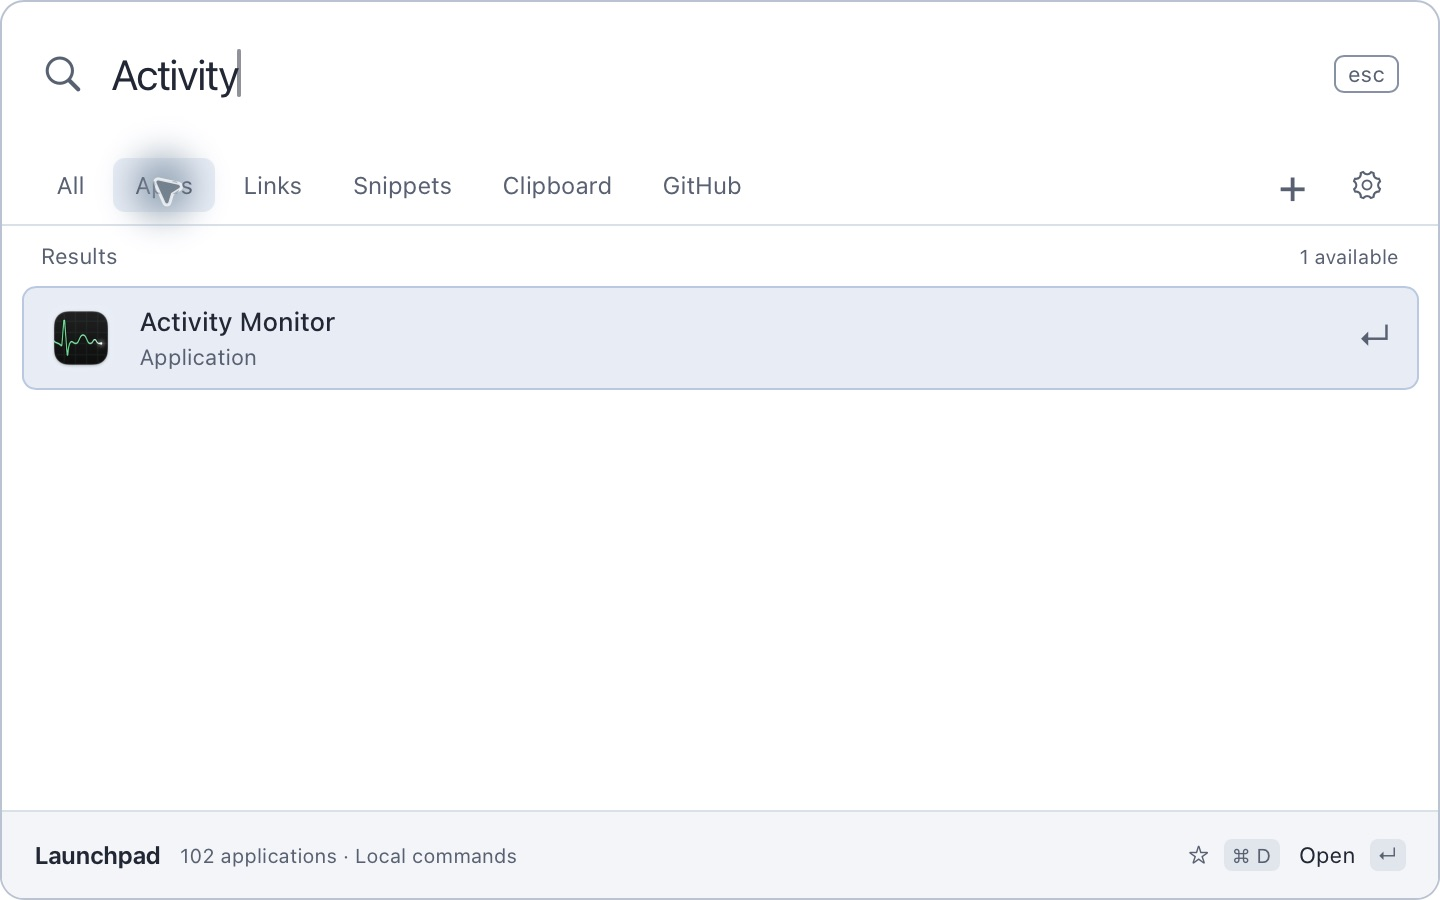
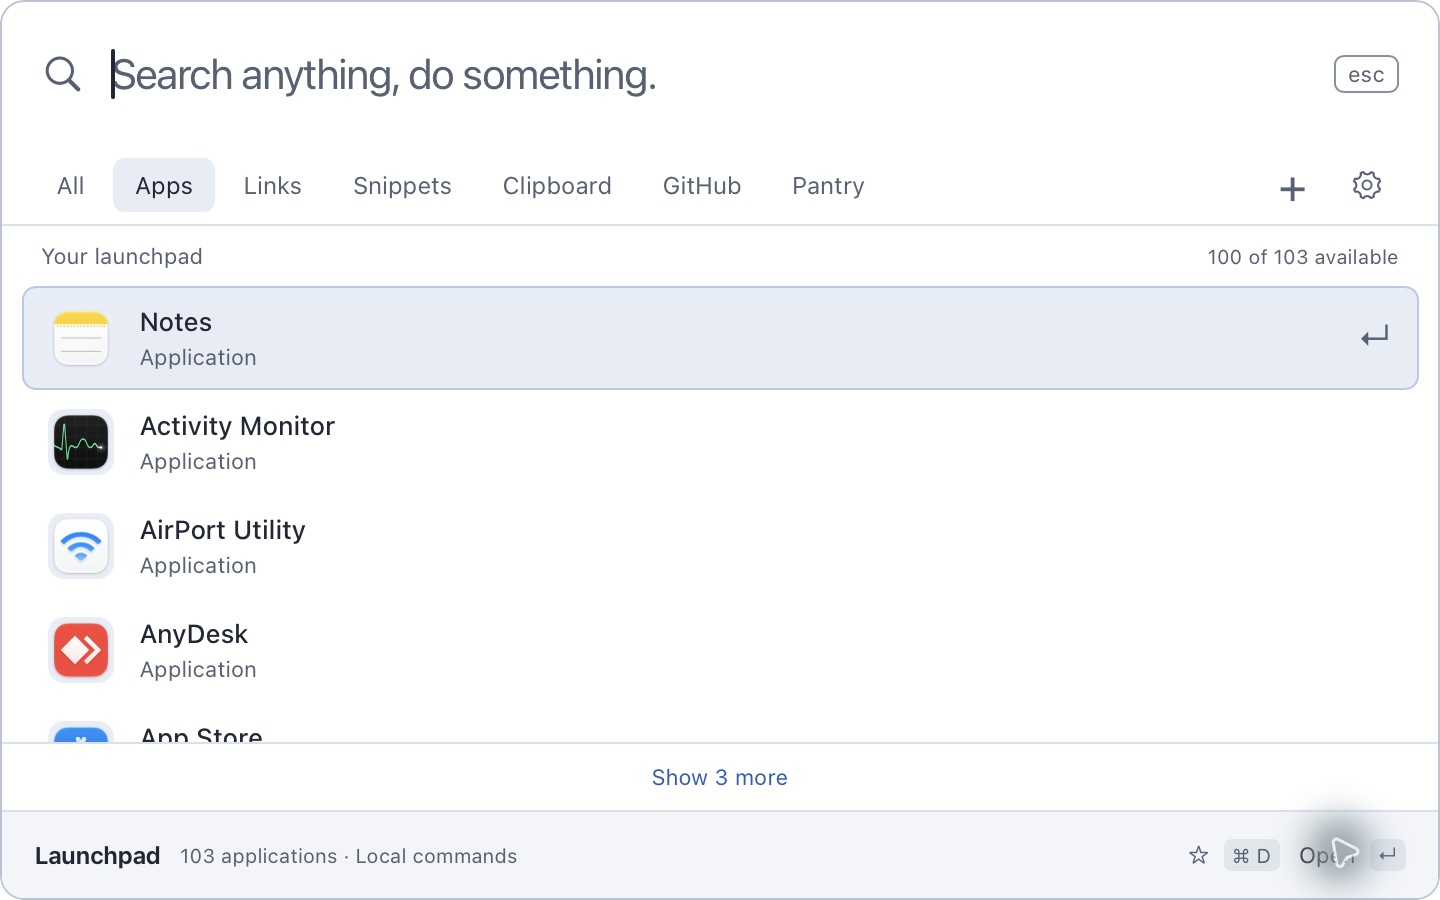
fix: qualify native search editing and saved connections

diff --git a/app-store.config.ts b/app-store.config.ts
@@ -35,6 +35,6 @@ If another app owns Command + Space, release that shortcut before using Launchpa
   ageRating: { userGeneratedContent: true },
   releaseType: 'AFTER_APPROVAL',
   usesNonExemptEncryption: false,
-  screenshots: [{ platform: 'MAC_APP_STORE', files: ['assets/screenshots/applications.jpg', 'assets/screenshots/applications-light.jpg', 'assets/screenshots/calculator.jpg', 'assets/screenshots/github.jpg'] }],
+  screenshots: [{ platform: 'MAC_APP_STORE', files: ['assets/screenshots/applications.jpg', 'assets/screenshots/applications-light.jpg', 'assets/screenshots/calculator.jpg', 'assets/screenshots/github.jpg', 'assets/screenshots/pantry.jpg'] }],
   submitForReview: false,
 } satisfies NativeAppStoreMetadata

diff --git a/docs/planning/v1.md b/docs/planning/v1.md
@@ -71,3 +71,9 @@ The user confirmed systemwide Command + Space, automatic search focus, Escape di
 The Store edition retains the same Pantry features and discloses the external CLI architecture in review notes. A Developer ID build of the same application is used for local qualification. There is no separate edition that hides installation behavior from App Review.
 
 The native Keychain check found and fixed a Craft persistence defect before release. Craft 0.0.365 stores credentials through Security.framework, reports denied reads and failed writes, and preserves existing credentials when an update fails. A real Launchpad quit and relaunch restored the Pantry connection and installed package list.
+
+Signed qualification exposed a Keychain authorization wait on the main thread. Craft 0.0.366 moves credential operations to owned workers and returns through the shared reply pool. Launchpad registers its shortcut before restoring optional integrations, so those integrations cannot delay the primary launcher.
+
+Craft 0.0.367 treats Keychain access as an interactive native request, preserving the pending request until macOS answers instead of timing out during system authentication. The signed, sandboxed qualification build verified Command + Delete clears search while preserving saved commands, and Return selects a package filter without launching the selected search result. Saved connection checks show their pending state and support retry after a denied request. Authorization for credentials created by the earlier development build remains a user-controlled macOS step on this machine.
+
+Signed Build 11 also captured the known calculator result `252` while the palette was hidden and rendered the saved text preview after reopening. The original paused setting and seven-day retention were restored after this check.

diff --git a/README.md b/README.md
@@ -9,11 +9,11 @@ Press Command + Space to find apps, calculate, open quicklinks, copy snippets, s
 | Command + Space | Show and focus Launchpad |
 | Command N | Create a quicklink or snippet |
 | Command D | Favorite the selected result |
-| Command Delete | Delete a saved command or clipboard entry |
+| Command Delete | Clear the search |
 | Command G | Open GitHub search |
 | Command Shift V | Open Clipboard History |
 | Command comma | Open Settings |
-| Escape | Close an editor, clear search or hide the palette |
+| Escape | Hide the palette |
 
 Clipboard History is opt-in. It records new text locally, skips protected pasteboard types, keeps at most 200 entries and supports 1, 7 or 30 day retention. Unmarked sensitive text can still be saved. Pause recording before copying private material. Saved items have a text preview and can be removed individually or cleared in Settings.
 
